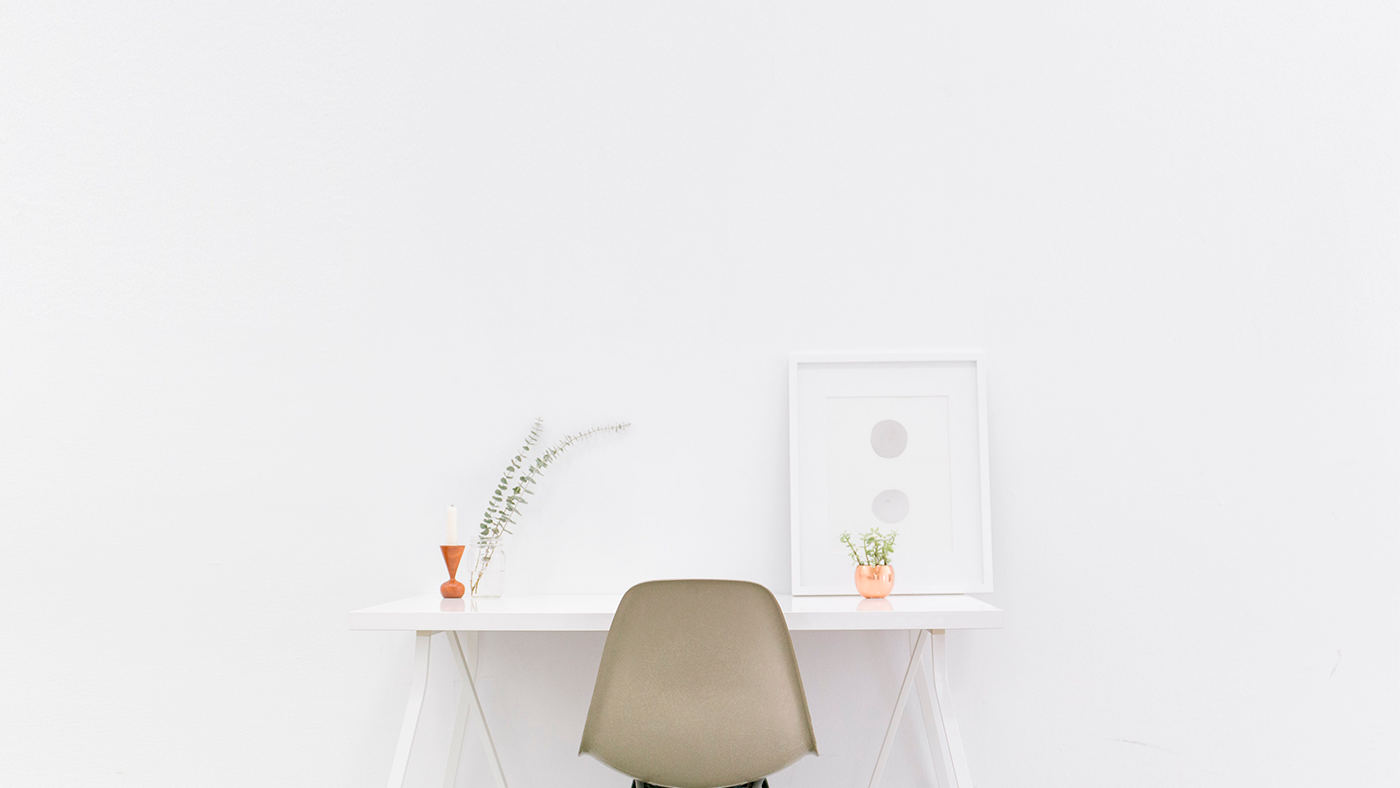
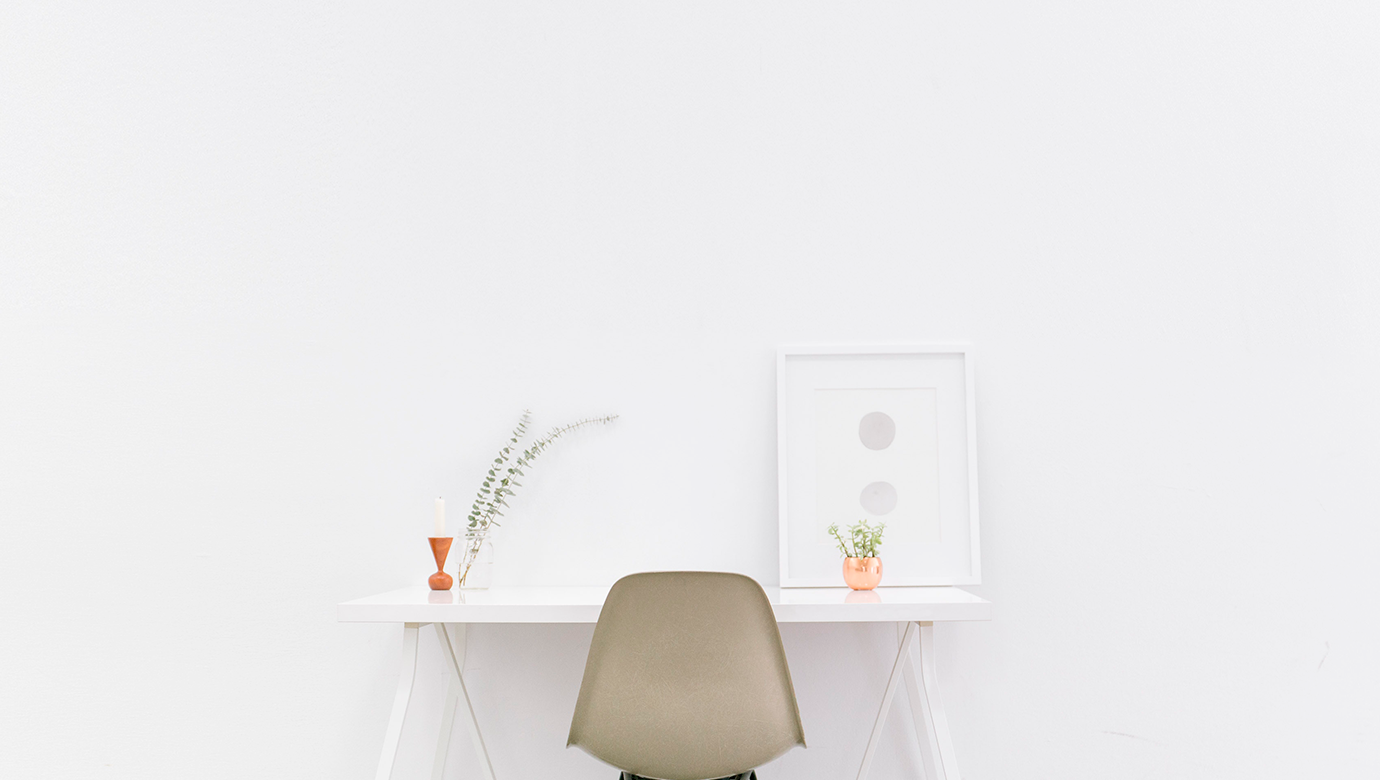
tercer commit

diff --git a/style.css b/style.css
@@ -1,15 +1,15 @@
 *{
     margin: 0%;
     padding: 0%;
+    cursor:context-menu;
 }
-.container1{
-    margin: 0%;
-    background-repeat: no-repeat;
+.container1{ 
     padding: 100px 0px 15.5% 0px;
     justify-items: center;
-    background: url(imgs/bgHeader.png);
-    background-position-y: -2122%;
-    background-position-x: 260px;
+    background-position-y: 113%;
+    background-image: url(imgs/bgHeader.png);
+    background-size: cover;
+    background-repeat: no-repeat;
 }
 .container1 h1{
     margin-bottom: 1%;
@@ -26,7 +26,7 @@
     padding: 10px 20px 10px 20px;
     border-radius: 20px;
     border: none;
-    margin-top: 100%;
+    margin: 100% 100% 100% 0%;
 } 
 .container2{
     display: flex;
@@ -44,7 +44,8 @@
 .container2 p{
     width: 690px;
     text-align: left;
-    font-size: 30px;
+    font-size: calc(12px + 1vw);
+    /* font-size: 30px; */
     margin-top: 15px;
 }
 .container2 button{
@@ -74,7 +75,7 @@
 .container3 p{
     width: 690px;
     text-align: left;
-    font-size: 30px;
+    font-size: calc(12px + 1vw);
     margin-top: 15px;
 }
 .container3 button{
@@ -88,17 +89,14 @@
 }
 .container4{
     background-image: url(imgs/bgDown.png);
-    background-position-x: 300px;
-    background-position-y: -40px;
     padding: 10% 10% 5% 10%;
-    background-color:rgb(241, 219, 213) ;
+    background-size: cover;
     background-repeat: no-repeat;
-    
 }
 .container4 p{
     width: 690px;
     text-align: left;
-    font-size: 30px;
+    font-size: calc(12px + 1vw);
     margin-top: 15px;
 }
 
@@ -125,16 +123,17 @@ button{
     justify-content: space-evenly;
     background-color:  rgb(255, 137, 64);
     color: aliceblue;
-
+    
 }
 .container5 h2{
     margin: 30px 30px 50px 0px;
     font-size: 18px;
+    font-family:Cambria, Cochin, Georgia, Times, 'Times New Roman', serif;
 }
 .container5 div{
     flex-direction: column;
     width: 150px;
-    margin: 2% 0% 5% 5%;
+    margin: 2% 0% 1% 0%;
     
 }
 .container5 a{
@@ -142,6 +141,7 @@ button{
     color: aliceblue;
     text-decoration: none;
     font-size: 18px;
+    cursor: pointer;
 }
 
 footer{
@@ -149,6 +149,7 @@ footer{
     background-color:  rgb(255, 137, 64);
     color: aliceblue;
     justify-items: center;
+    box-shadow: 0px 0px 10px rgb(201, 95, 29);
 }
 footer p{
     margin-left: 15%;
